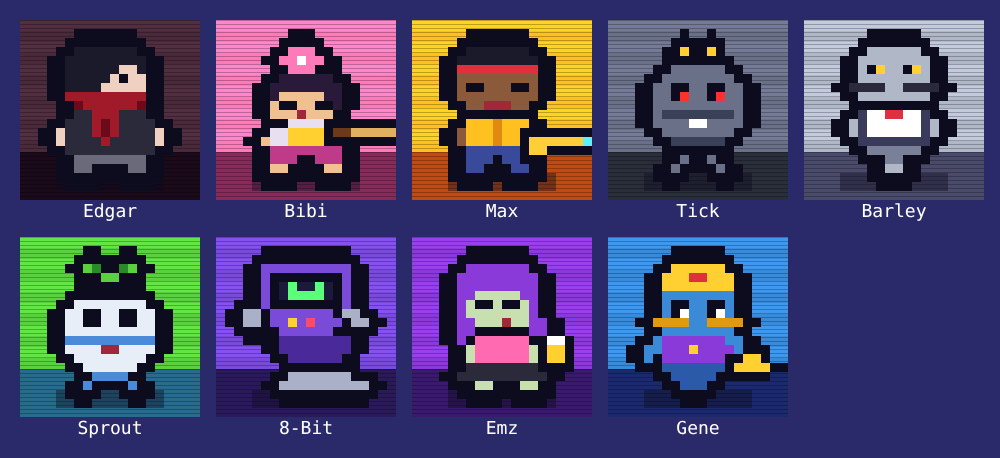
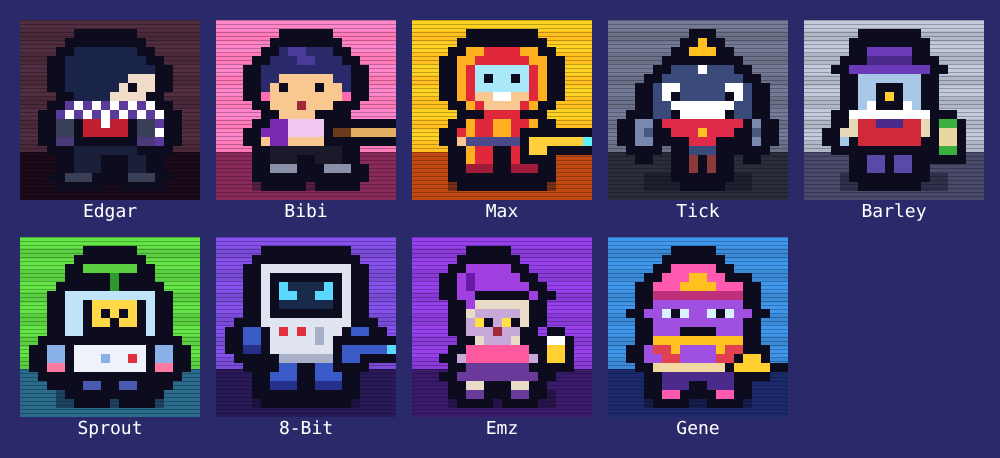
Redraw Edgar, Bibi, Max, Tick, Barley, Sprout, 8-Bit, Emz and Gene from reference art
Claude-Session: https://claude.ai/code/session_01FdRq2KxaynozDRfyymzMuF

diff --git a/Brawl8Bit.html b/Brawl8Bit.html
@@ -849,8 +849,8 @@ const SPECIAL_SKINS = {
   frank: [{ id: 'dj', name: 'DJ', pal: { v: '#e03030', m: '#ffd030', H: '#1a1a1a' }, price: { gems: 80 } }],
   rosa: [{ id: 'cactus', name: 'Cactus', pal: { P: '#5ad040', p: '#3aa040', g: '#ff7ab8' }, price: { gems: 80 } }],
   edgar: [{ id: 'pinkedgar', name: 'Pink', pal: { K: '#ff7ab8', r: '#3a8ad8', R: '#1a4a8a' }, price: { gems: 80 } }],
-  eightbit: [{ id: 'classic8', name: 'Classic', pal: { p: '#3a8ad8', P: '#1a4a8a', g: '#ffd030' }, price: { gems: 80 } }],
-  gene: [{ id: 'goldgene', name: 'Gold', pal: { b: '#ffd030', B: '#c09010', y: '#3a8ad8' }, price: { gems: 100 } }],
+  eightbit: [{ id: 'classic8', name: 'Classic', pal: { W: '#9a7ae8', G: '#6a4ab8', c: '#5aff7a' }, price: { gems: 80 } }],
+  gene: [{ id: 'goldgene', name: 'Gold', pal: { u: '#ffd030', U: '#c09010', p: '#3a8ad8' }, price: { gems: 100 } }],
   max: [{ id: 'maxneon', name: 'Neon', pal: { y: '#5ef0ff', Y: '#2ab0d0', r: '#ff4ab0' }, price: { gems: 80 } }],
 };
 const skinName = (id, sk) => !sk ? 'Classic' : ((SPECIAL_SKINS[id] || []).find(x => x.id === sk) || SKINS.find(x => x.id === sk) || { name: sk }).name;
@@ -1640,159 +1640,159 @@ const SPR = {
     'kyykyyk',
     '.kyyyk.',
     '..kkk..'] },
-  edgar: { pal: { K: '#1a1a2a', s: '#f0d0c0', r: '#a01a2a', R: '#6a0a1a', j: '#2a2a3a', g: '#6a6a7a' }, weapon: null, rows: [
+  edgar: { pal: { K: '#1a2448', s: '#f0dcc8', v: '#5a3a9a', r: '#c02030', j: '#3a3f58', n: '#1a1f3a', g: '#4a3a7a' }, weapon: null, rows: [
     '....kkkkkkk.....',
     '...kKKKKKKKk....',
     '..kKKKKKKKKKk...',
-    '..kKKKKKKssKk...',
-    '..kKKKKKskssk...',
-    '..kKKKKsssssk...',
-    '..krrrrrrrrrk...',
-    '...kRrrrrrrRk...',
-    '...kjjrrrjjjk...',
-    '..kjjjrRrjjjjk..',
-    '.ksjjjrRrjjjjsk.',
-    '.ksjjjjrjjjjjsk.',
-    '..kjjjjjjjjjjk..',
-    '...kggggggggk...',
-    '...kggk..kggk...',
-    '...kkkk..kkkk...'] },
-  bibi: { pal: { K: '#2a1a3a', s: '#f0c090', p: '#ff7ab8', j: '#e8e0f0', y: '#ffd030', P: '#c03a8a' }, weapon: 'bat', rows: [
-    '......kkk.......',
-    '.....kpppk......',
-    '....kppwppk.....',
-    '.....kpppkk.....',
-    '....kKKKKKKk....',
-    '...kKKKKKKKKk...',
-    '...kKsssssKKk...',
-    '...kskksskkKk...',
-    '...ksssmsssk....',
-    '....kkjjjjkk....',
-    '...kjjyyyyjjk...',
-    '..ksjjyyyyjjsk..',
-    '...kPPPPPPPPk...',
-    '...kPPPkkPPPk...',
-    '...kssk..kssk...',
-    '...kkkk..kkkk...'] },
-  max: { pal: { K: '#1a1a2a', D: '#8a5a3a', r: '#e03040', y: '#ffc020', Y: '#e08a10', b: '#3a4a9a' }, weapon: 'blaster', rows: [
-    '....kkkkkkk.....',
-    '...kKKKKKKKk....',
-    '..kKKKKKKKKKk...',
-    '..krrrrrrrrrk...',
-    '..kDDDDDDDDDk...',
-    '..kDkkDDDkkDk...',
-    '..kDDDDDDDDDk...',
-    '...kDDmmmDDk....',
-    '....kkkkkkk.....',
-    '...kyyyYyyyk....',
-    '..kDyyyYyyyDk...',
-    '..kDyyyYyyyDk...',
-    '...kbbbbbbbk....',
-    '...kbbbkbbbk....',
-    '...kbbk.kbbk....',
-    '...kkkk.kkkk....'] },
-  tick: { pal: { g: '#6a7088', G: '#3a4058', r: '#ff3030', y: '#ffd030' }, weapon: null, rows: [
-    '......k..k......',
-    '.....ky.ky......',
-    '.....kkkkkk.....',
-    '....kggggggk....',
-    '...kggggggggk...',
-    '..kggkkggkkggk..',
-    '..kggkrggkrggk..',
-    '..kggggggggggk..',
-    '..kgGGGGGGGGgk..',
-    '..kggggwwggggk..',
-    '...kggggggggk...',
-    '....kGGGGGGk....',
-    '.....kkkkkk.....',
-    '.....kg..gk.....',
-    '....kgk..kgk....',
-    '....kk....kk....'] },
-  barley: { pal: { g: '#b0b8c8', G: '#7a8098', K: '#2a2a3a', r: '#e03040', b: '#3a3a5a', y: '#ffd030' }, weapon: null, rows: [
-    '.....kkkkkk.....',
-    '....kggggggk....',
-    '...kggggggggk...',
-    '...kgkyggkygk...',
-    '...kggggggggk...',
-    '..kKKKKggKKKKk..',
-    '...kggggggggk...',
-    '....kkkkkkkk....',
-    '...kbwwrrwwbk...',
-    '..kgbwwwwwwbgk..',
-    '..kgbwwwwwwbgk..',
-    '...kbbbbbbbbk...',
-    '....kGGGGGGk....',
-    '.....kkGGkk.....',
-    '......kggk......',
-    '......kkkk......'] },
-  sprout: { pal: { l: '#5ad040', L: '#2a8a2a', w: '#e8eef8', b: '#4a8ad8' }, weapon: null, rows: [
-    '.....kk..kk.....',
-    '....klLkkLlk....',
-    '.....kkllkk.....',
-    '.......kk.......',
-    '....kkkkkkkk....',
-    '...kwwwwwwwwk...',
-    '..kwwkkwwkkwwk..',
-    '..kwwkkwwkkwwk..',
-    '..kwwwwwwwwwwk..',
-    '..kbbbbbbbbbbk..',
-    '..kwwwwmmwwwwk..',
-    '...kwwwwwwwwk...',
-    '....kwwwwwwk....',
-    '.....kbbbbk.....',
-    '....kbk..kbk....',
-    '....kk....kk....'] },
-  eightbit: { pal: { p: '#7a4ad8', P: '#4a2a9a', s: '#1a1a3a', g: '#5aff7a', r: '#ff4a6a', y: '#ffd030', c: '#aab0c8' }, weapon: null, rows: [
-    '...kkkkkkkkkk...',
-    '..kppppppppppk..',
-    '..kpkkkkkkkkpk..',
-    '..kpksgssgskpk..',
-    '..kpksggggskpk..',
-    '..kpkkkkkkkkpk..',
-    'kcckpppppppkcck.',
-    'kcckppyprpppkcck',
-    '.kkkkppppppkkkk.',
-    '....kPPPPPPPPk..',
-    '....kPPPPPPPPk..',
-    '.....kPPPPPPk...',
-    '......kkkkkk....',
-    '.....kccccccck..',
-    '....kcccccccccck',
-    '.....kkkkkkkkkk.'] },
-  emz: { pal: { P: '#8a3ad8', s: '#c8e0b0', p: '#ff6ab0', K: '#2a2a3a', y: '#ffd030' }, weapon: 'spray', rows: [
-    '....kkkkkkk.....',
-    '...kPPPPPPPk....',
-    '..kPPPPPPPPPk...',
-    '..kPPPPPPPPPk...',
-    '..kPPsssssPPk...',
-    '..kPskkskksPk...',
-    '..kPsssssssPk...',
-    '..kPPsssmssPPk..',
-    '..kPPkkkkkkPPk..',
-    '..kPkppppppkPk..',
-    '...ksppppppsk...',
-    '...ksppppppsk...',
-    '...kKKKKKKKKk...',
     '..kKKKKKKKKKKk..',
-    '....kssk.kssk...',
-    '....kkkk.kkkk...'] },
-  gene: { pal: { b: '#3a8ad8', B: '#2a5aa8', y: '#ffd030', Y: '#e09a10', r: '#e03040', p: '#8a3ad8' }, weapon: 'lamp', rows: [
+    '..kKKKKKKKsssk..',
+    '..kKKKKKKskssk..',
+    '...kKKKKssssk...',
+    '..kvwvwvwvwvwk..',
+    '.kvwvwvwvwvwvwk.',
+    '.kjjkrrwrrkjjvk.',
+    '.kjjkrrrrrkjjwk.',
+    '.kggkkkkkkkggvk.',
+    '...knnnnnnnk....',
+    '...knnnk.knnk...',
+    '...knnnk.knnk...',
+    '..kjjjk..kjjjk..'] },
+  bibi: { pal: { H: '#2a2a6a', h: '#4a3a9a', j: '#7a2ab0', t: '#f0c8f0', n: '#1a1a2a', p: '#ff6ab0' }, weapon: 'bat', rows: [
     '.....kkkkkk.....',
-    '....kyyyyyyk....',
-    '...kyyyrryyyk...',
-    '...kyyyyyyyyk...',
-    '...kbbbbbbbbk...',
-    '...kbkkbbkkbk...',
-    '...kbkwbbkwbk...',
-    '..kYYYYbbYYYYk..',
-    '...kbbbbbbbbk...',
-    '..kbpppppppbbk..',
-    '.kbbpppyppppbbk.',
-    '.kbkpppppppkbk..',
-    '...kBBBBBBBk....',
-    '....kBBBBBk.....',
-    '.....kBBBk......',
-    '......kkk.......'] },
+    '....kHhhHHHk....',
+    '...kHHHhhHHHk...',
+    '..kHHHHHHHHHHk..',
+    '..kHHssssssHHk..',
+    '..kHskssskssHk..',
+    '..kpsssssssspk..',
+    '...ksssmsssk....',
+    '....kssssk......',
+    '...kjjttttjjk...',
+    '..kjjjttttjjjk..',
+    '..ksjjssssjjsk..',
+    '...knnnnnnnnk...',
+    '...knnnkknnnk...',
+    '...kgggk.kgggk..',
+    '...kkkkk.kkkkk..'] },
+  max: { pal: { r: '#e0283a', R: '#a01a3a', y: '#ffb020', c: '#a8e8f8', b: '#4a4a8a' }, weapon: 'blaster', rows: [
+    '....kkkkkkkk....',
+    '...kyyrrrryyk...',
+    '..kyyrrrrrryyk..',
+    '..kyrccccccryk..',
+    '..kyrckcckcryk..',
+    '..kyrccccccryk..',
+    '..kyrsswwssryk..',
+    '...kyrssssryk...',
+    '....kkrrrrkk....',
+    '...kyrryyrryk...',
+    '..kryrryyrryrk..',
+    '..ksbbbbbbbbsk..',
+    '...kyrrkkrryk...',
+    '...kyrrkkrryk...',
+    '...kRRRkkRRRk...',
+    '...kkkkkkkkkk...'] },
+  tick: { pal: { b: '#3a4a7a', B: '#24305a', y: '#ffc020', r: '#e02a4a', g: '#7a88b0', G: '#4a5880', n: '#8a3a3a' }, weapon: null, rows: [
+    '.......kyk......',
+    '......kyyyk.....',
+    '.....kkkkkkk....',
+    '....kbbbwbbbk...',
+    '...kbbbbbbbbbk..',
+    '..kbwwbbbbbwwbk.',
+    '..kbwkbbbbbkwbk.',
+    '..kbbwwwwwwwbbk.',
+    '..kbbkwwwwwkbbk.',
+    'kggkrrrrrrrrrkgk',
+    'kgGkkrrryrrrkkGk',
+    'kggk.kkrrrkk.kgk',
+    '.kk...kbbbk..kk.',
+    '......knknk.....',
+    '......knknk.....',
+    '......kkkkk.....'] },
+  barley: { pal: { H: '#6a3ab8', h: '#4a2a8a', g: '#a8c8e8', G: '#7aa0c8', y: '#ffd030', r: '#d02a3a', c: '#e8d8b8', v: '#5a4aa8' }, weapon: 'bottle', rows: [
+    '....kkkkkkk.....',
+    '....kHHHHHk.....',
+    '...kkhhhhhkk....',
+    '..kHHHHHHHHHk...',
+    '...kgggggggk....',
+    '...kggkkkggk....',
+    '...kggkykggk....',
+    '...kgwkkkwgk....',
+    '..kwwwwwwwwwk...',
+    '..kcrrhhhrrck...',
+    '.kccrrrrrrrcck..',
+    '.kgkrrrrrrrkgk..',
+    '...kkkkkkkkk....',
+    '....kvvkvvk.....',
+    '....kvvkvvk.....',
+    '....kkkkkkk.....'] },
+  sprout: { pal: { l: '#5ad040', L: '#2a9a2a', a: '#bfe4f8', y: '#ffd84a', W: '#eef2fa', b: '#8ab0e8', B: '#4a5ab0', p: '#ff7aa0', r: '#e03040' }, weapon: null, rows: [
+    '.....kkkkkk.....',
+    '....kllllllk....',
+    '.....kkkLkk.....',
+    '...kkkkkLkkkk...',
+    '..kaaaaaaaaaak..',
+    '..kaakyyyyykak..',
+    '..kaakykykykak..',
+    '..kaakyykyykak..',
+    '..kaakkkkkkkak..',
+    '.kkkkkkkkkkkkkk.',
+    'kbbkWWWWWWWWkbbk',
+    'kbbkWWWbWWrWkbbk',
+    'kppkWWWWWWWWkppk',
+    '.kk.kkkkkkkk.kk.',
+    '....kBBkkBBk....',
+    '....kkkk.kkkk...'] },
+  eightbit: { pal: { W: '#e0e4f0', G: '#a8b0c8', d: '#1a2a4a', c: '#5ad8ff', r: '#e03040', b: '#3a5ac8', B: '#24308a' }, weapon: 'laser', rows: [
+    '...kkkkkkkkkk...',
+    '..kWWWWWWWWWWk..',
+    '..kWkkkkkkkkWk..',
+    '..kWkcddddckWk..',
+    '..kWkccddcckWk..',
+    '..kWkddddddkWk..',
+    '..kWkkkkkkkkWk..',
+    '.kkWWWWWWWWWWkk.',
+    'kbbkWrWrWGWWkbbk',
+    'kbbkWWWWWGWWkbbk',
+    'kBBkWWWWWWWWkBBk',
+    '.kk.kGGGGGGk.kk.',
+    '....kbbkkbbk....',
+    '...kbbbkkbbbk...',
+    '...kBBBkkBBBk...',
+    '...kkkkkkkkkk...'] },
+  emz: { pal: { P: '#a040e0', Q: '#6a1aa8', s: '#c8a8d8', e: '#ffe040', p: '#ff5aa0', v: '#6a3a9a', b: '#e8dcc8' }, weapon: 'spray', rows: [
+    '....kkkkk.......',
+    '...kPPPPPk......',
+    '..kPQPPPPPk.....',
+    '..kPQPPPPPPk....',
+    '..kPPkkkkkkPk...',
+    '...kPbbbbbbk....',
+    '...kbsssssbk....',
+    '...kseksekbk....',
+    '...ksssmssk.....',
+    '....kbsssbk.....',
+    '...kpppppppk....',
+    '..kspppppppsk...',
+    '...kvvvvvvvk....',
+    '..kvvvvvvvvvk...',
+    '...kbbk.kbbk....',
+    '...kvvk.kvvk....'] },
+  gene: { pal: { p: '#ff5ab0', P: '#c0307a', y: '#ffc020', u: '#a050e0', U: '#7030b0', c: '#d8f0ff', r: '#e04050', t: '#f0d8a0', n: '#4a2a8a' }, weapon: 'lamp', rows: [
+    '.....kkkkk......',
+    '....kpppppk.....',
+    '...kpppyyppk....',
+    '..kpppyyyypppk..',
+    '..kPPPPPPPPPPk..',
+    '..kuuuuuuuuuuk..',
+    '.kuuckcuuckcuuk.',
+    '..kuuuuuuuuuuk..',
+    '..kuuukkkkuuuk..',
+    '..kyyyyyyyyyyk..',
+    '.kurryuuuuyrruk.',
+    '.kuurruuuurruuk.',
+    '..kttttttttttk..',
+    '...knnnnnnnnk...',
+    '...knnnkknnnk...',
+    '...kppk..kppk...'] },
 };
 const WEAPONS = {
   shotgun: { pal: { n: '#8a4b23', g: '#9aa0b8' }, rows: ['kkkkkkkkkk.', 'knnngggggkk', 'kkkkkkkkkk.'], ox: 9, oy: 10 },
@@ -1807,6 +1807,8 @@ const WEAPONS = {
   bat: { pal: { y: '#e0b060', n: '#6a3a1a' }, rows: ['kkkkkkkk..', 'knnyyyyyyk', 'kkkkkkkk..'], ox: 10, oy: 9 },
   spray: { pal: { y: '#ffd030', w: '#ffffff' }, rows: ['.kk..', 'kwwk.', 'kyyk.', 'kyyk.', 'kkkk.'], ox: 12, oy: 8 },
   lamp: { pal: { y: '#ffd030' }, rows: ['..kk...', '.kyyk..', 'kyyyykk', '.kkkk..'], ox: 11, oy: 10 },
+  laser: { pal: { b: '#3a5ac8', c: '#5ad8ff' }, rows: ['kkkkkkk.', 'kbbbbbck', 'kbbkkkk.', 'kkk.....'], ox: 11, oy: 9 },
+  bottle: { pal: { g: '#3ab040', c: '#e8d8a0' }, rows: ['.kk.', 'kggk', 'kcck', 'kcck', 'kggk', 'kkkk'], ox: 12, oy: 8 },
   dynamite: { pal: { r: '#d83030', y: '#ffe040' }, rows: ['.y.', 'kkk', 'krk', 'krk', 'kkk'], ox: 12, oy: 9 },
 };
 (function finishSprites() {
